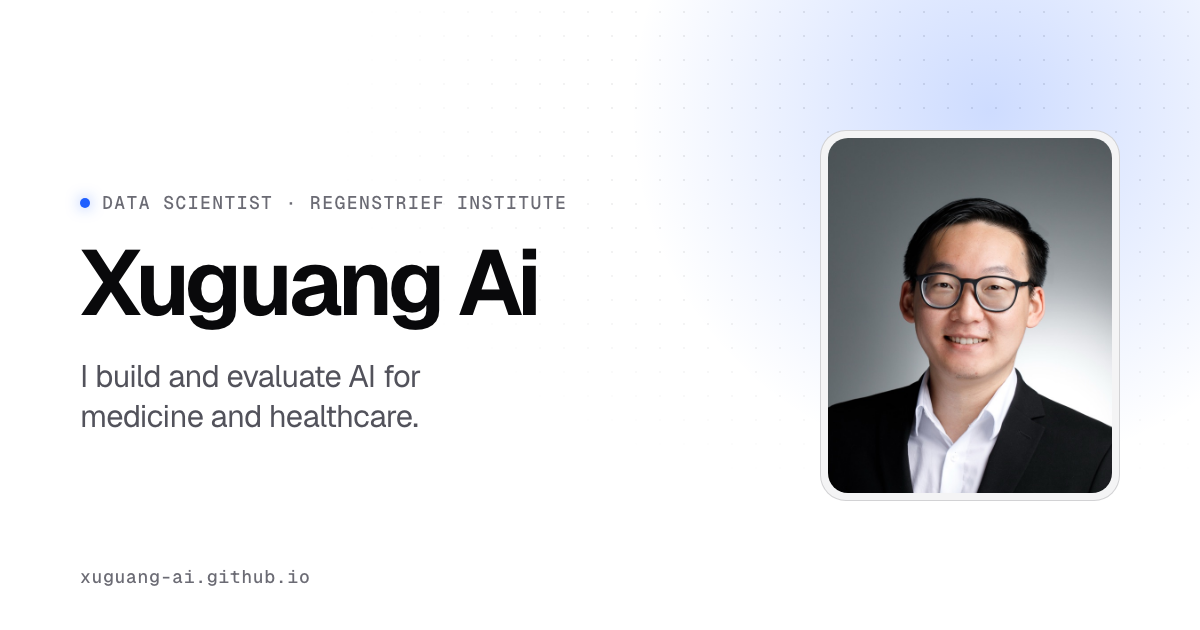
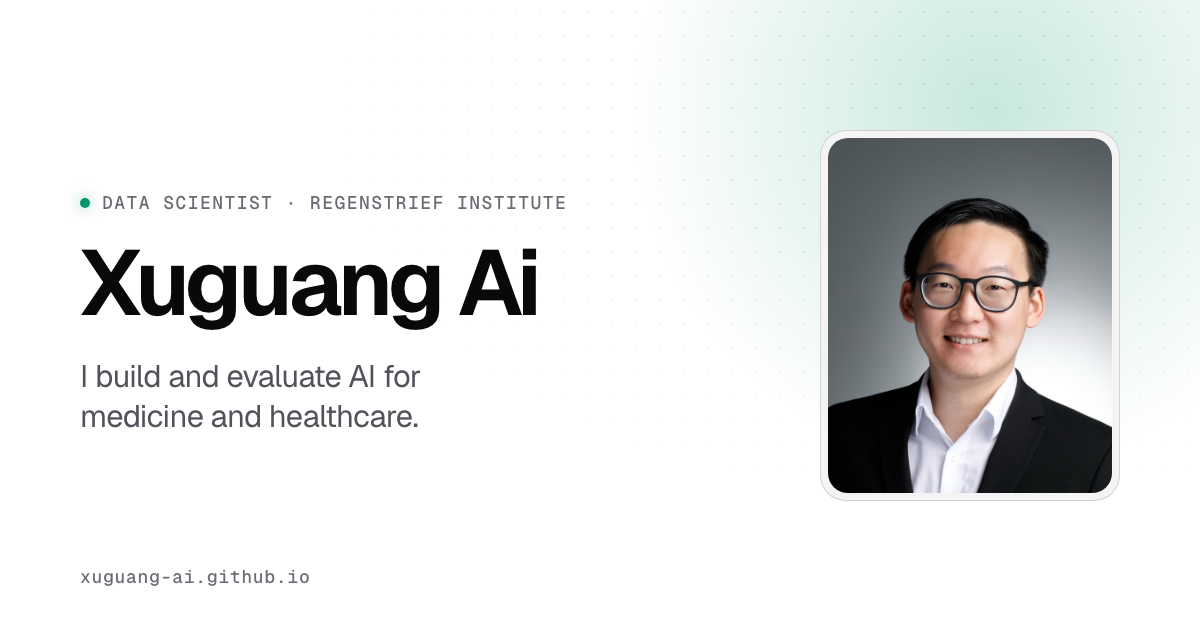
Switch the accent from blue to emerald
Marks and lines use #059669; text and the primary button use the darker
#047857 (5.5:1 on white, also under white button text). The share image
is regenerated with the new color.

Changed region(s): [[0.74, 0.0302, 0.925, 0.2111], [0.0617, 0.3016, 0.0925, 0.3317]]

diff --git a/static/css/site.css b/static/css/site.css
@@ -11,8 +11,9 @@
   --line: rgba(9, 9, 11, .08); --line-2: rgba(9, 9, 11, .14); --line-3: rgba(9, 9, 11, .26);
   --text: #09090b; --text-2: #52525b; --text-3: #6b6b74;
   --dot: rgba(9, 9, 11, .10);
-  --accent: #1f5fff; --accent-ink: #1747c9; --accent-soft: rgba(31, 95, 255, .09); --accent-glow: rgba(31, 95, 255, .24);
-  --btn-bg: #1f5fff; --btn-text: #ffffff;
+  /* Emerald. --accent draws marks and lines (3.8:1 on white); text and the button use the darker step (5.5:1). */
+  --accent: #059669; --accent-ink: #047857; --accent-soft: rgba(5, 150, 105, .09); --accent-glow: rgba(5, 150, 105, .24);
+  --btn-bg: #047857; --btn-text: #ffffff;
   color-scheme: light;
 }
 
